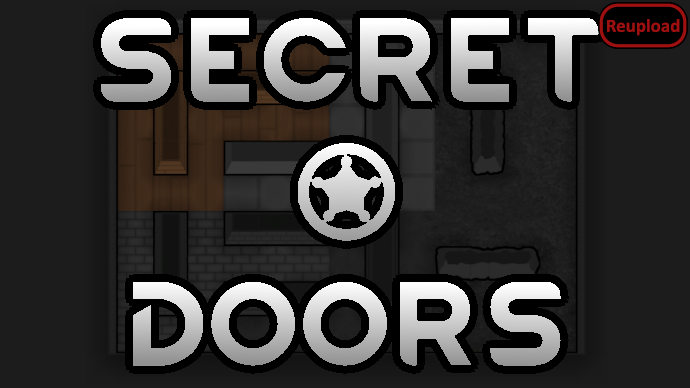
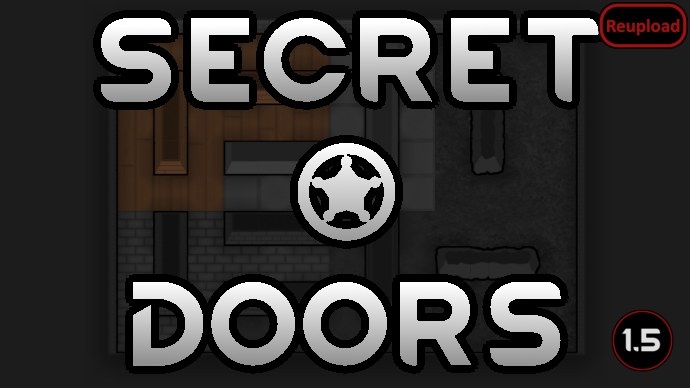
Mod updated for 1.5 and passed autotests

Changed region(s): [[0.8826, 0.8041, 0.9739, 0.9588]]

diff --git a/README.md b/README.md
@@ -25,11 +25,13 @@ Also, side note, the wall connector can be used for things other than connecting
 
 -  See if the the error persists if you just have this mod and its requirements active.
 -  If not, try adding your other mods until it happens again.
--  Post your error-log using https://steamcommunity.com/workshop/filedetails/?id=818773962]HugsLib and command Ctrl+F12
+-  Post your error-log using https://steamcommunity.com/workshop/filedetails/?id=818773962]HugsLib or the standalone https://steamcommunity.com/sharedfiles/filedetails/?id=2873415404]Uploader and command Ctrl+F12
 -  For best support, please use the Discord-channel for error-reporting.
 -  Do not report errors by making a discussion-thread, I get no notification of that.
 -  If you have the solution for a problem, please post it to the GitHub repository.
+-  Use https://github.com/RimSort/RimSort/releases/latest]RimSort to sort your mods
 
 
 
+https://steamcommunity.com/sharedfiles/filedetails/changelog/2412682633]![Image](https://img.shields.io/github/v/release/emipa606/SecretPassageDoors?label=latest%20version&style=plastic&color=9f1111&labelColor=black)
 
